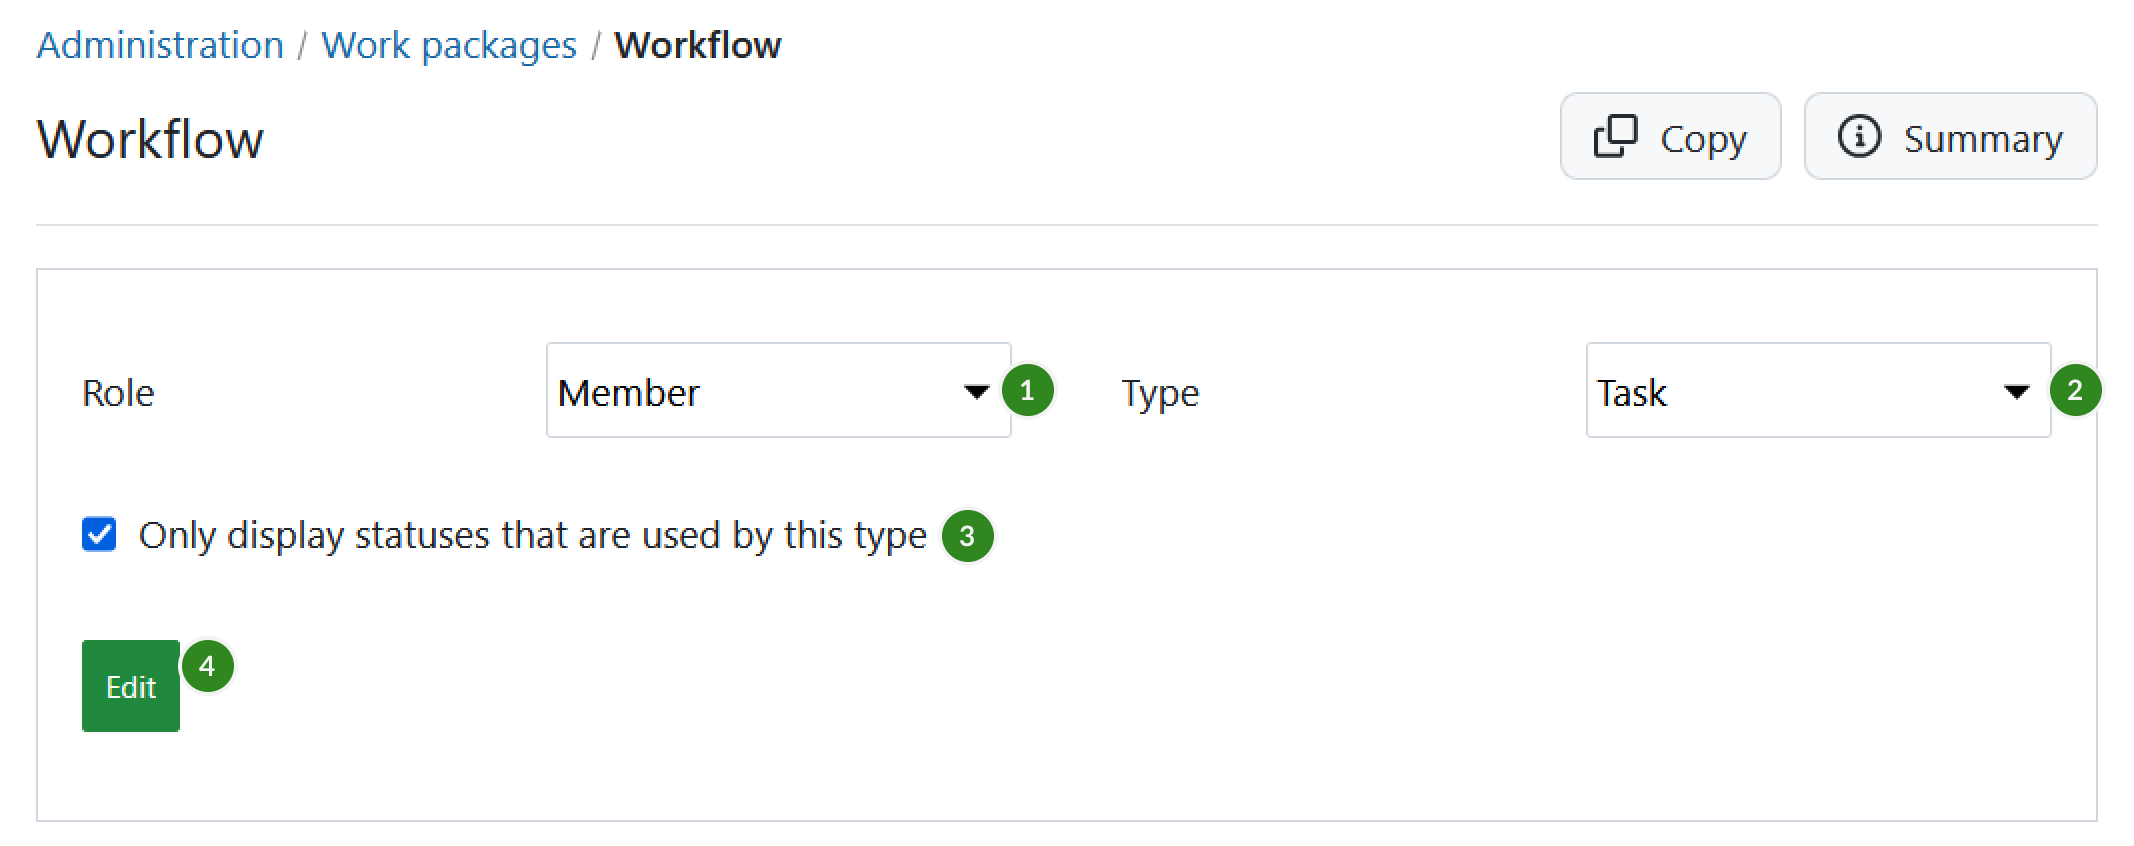
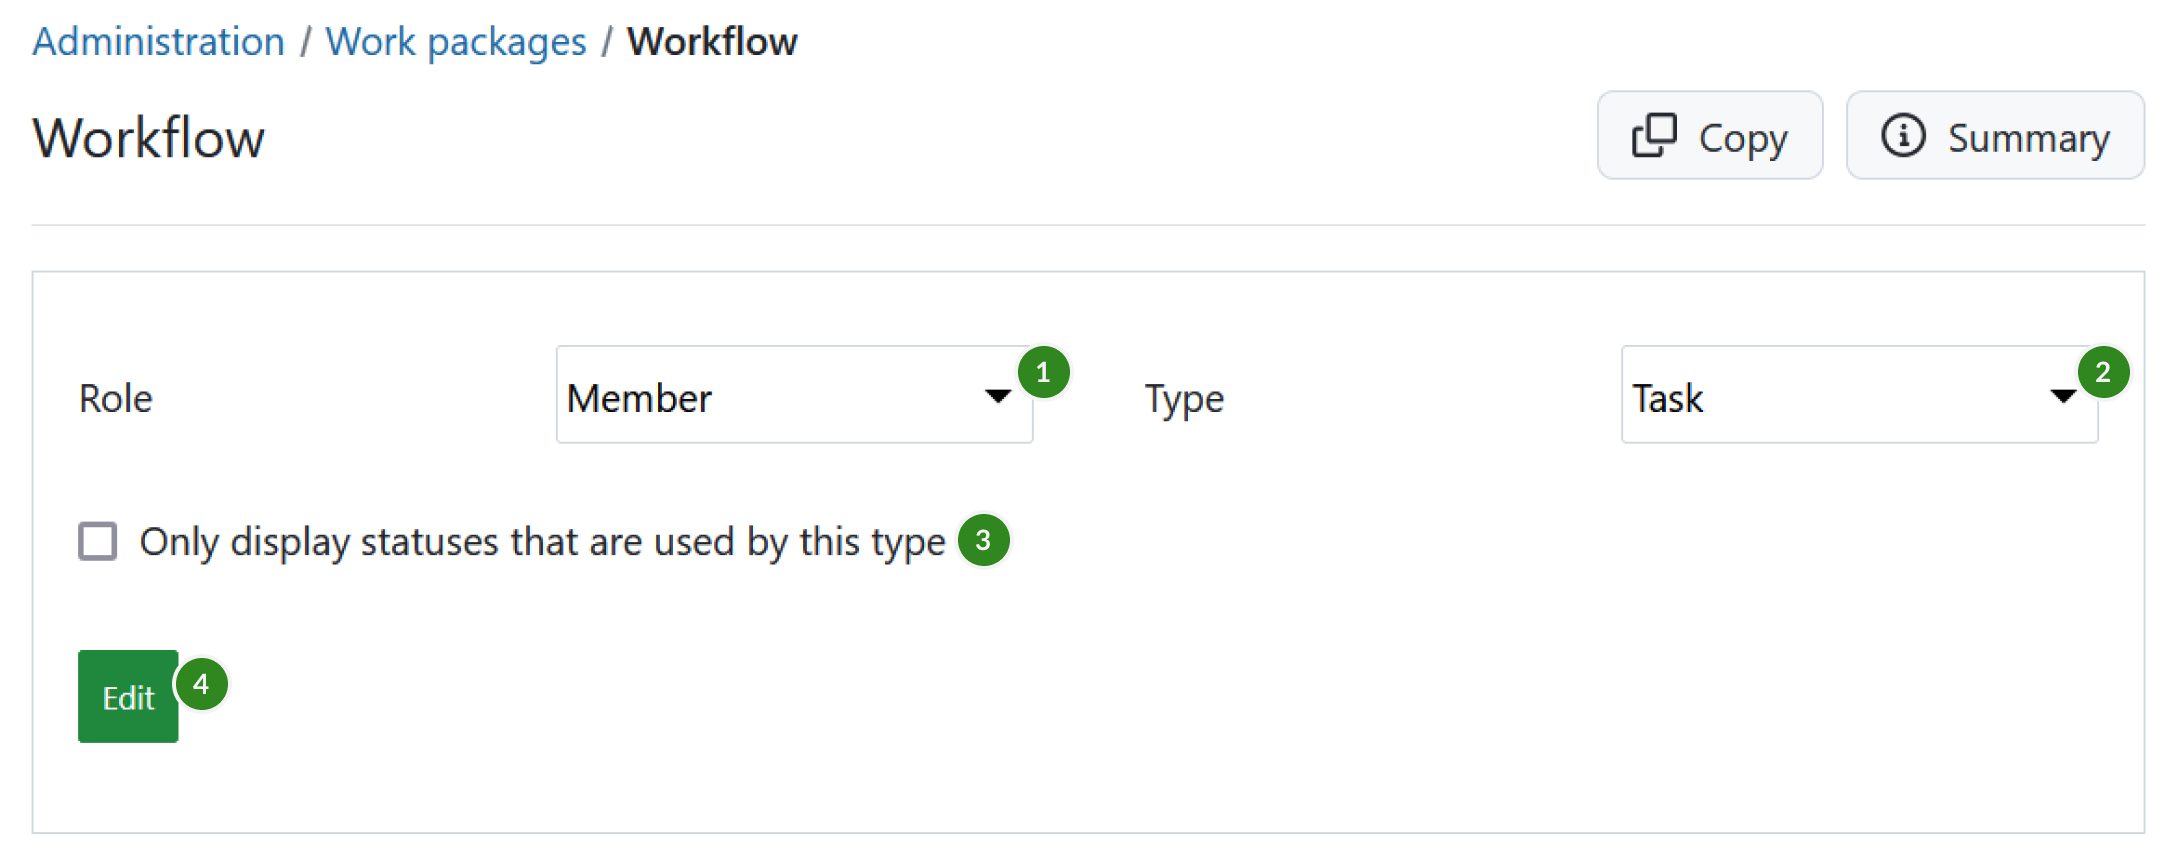
[#57591] 14.5 Documentation: Administration for workflows: Uncheck box by default to display all statuses  https://community.openproject.org/work_packages/57591
[#57591] 14.5 Documentation: Administration for workflows: Uncheck box by default to display all statuses

https://community.openproject.org/work_packages/57591

diff --git a/docs/system-admin-guide/manage-work-packages/work-package-workflows/README.md b/docs/system-admin-guide/manage-work-packages/work-package-workflows/README.md
@@ -19,7 +19,7 @@ To edit a workflow:
 
 1. Select the **role** from the dropdown menu for which you want to edit the workflow.
 2. Select the **work package type** from the dropdown menu for which you want to edit the workflow.
-3. Check if you **only want the statuses that are used by this type** to be displayed (this option is selected automatically, but you can always uncheck it).
+3. Check if you **only want the statuses that are used by this type** to be displayed (this option is disabled per default, but you can always activate it).
    **Note**: If you have created a [new status](../work-package-status) and want to add it to a workflow of a certain work package type, you need to deselect this option. Only this way also status that are not (yet) used by this type will appear in the list and can be added to a workflow.
 4. Click the **Edit** button.
 
